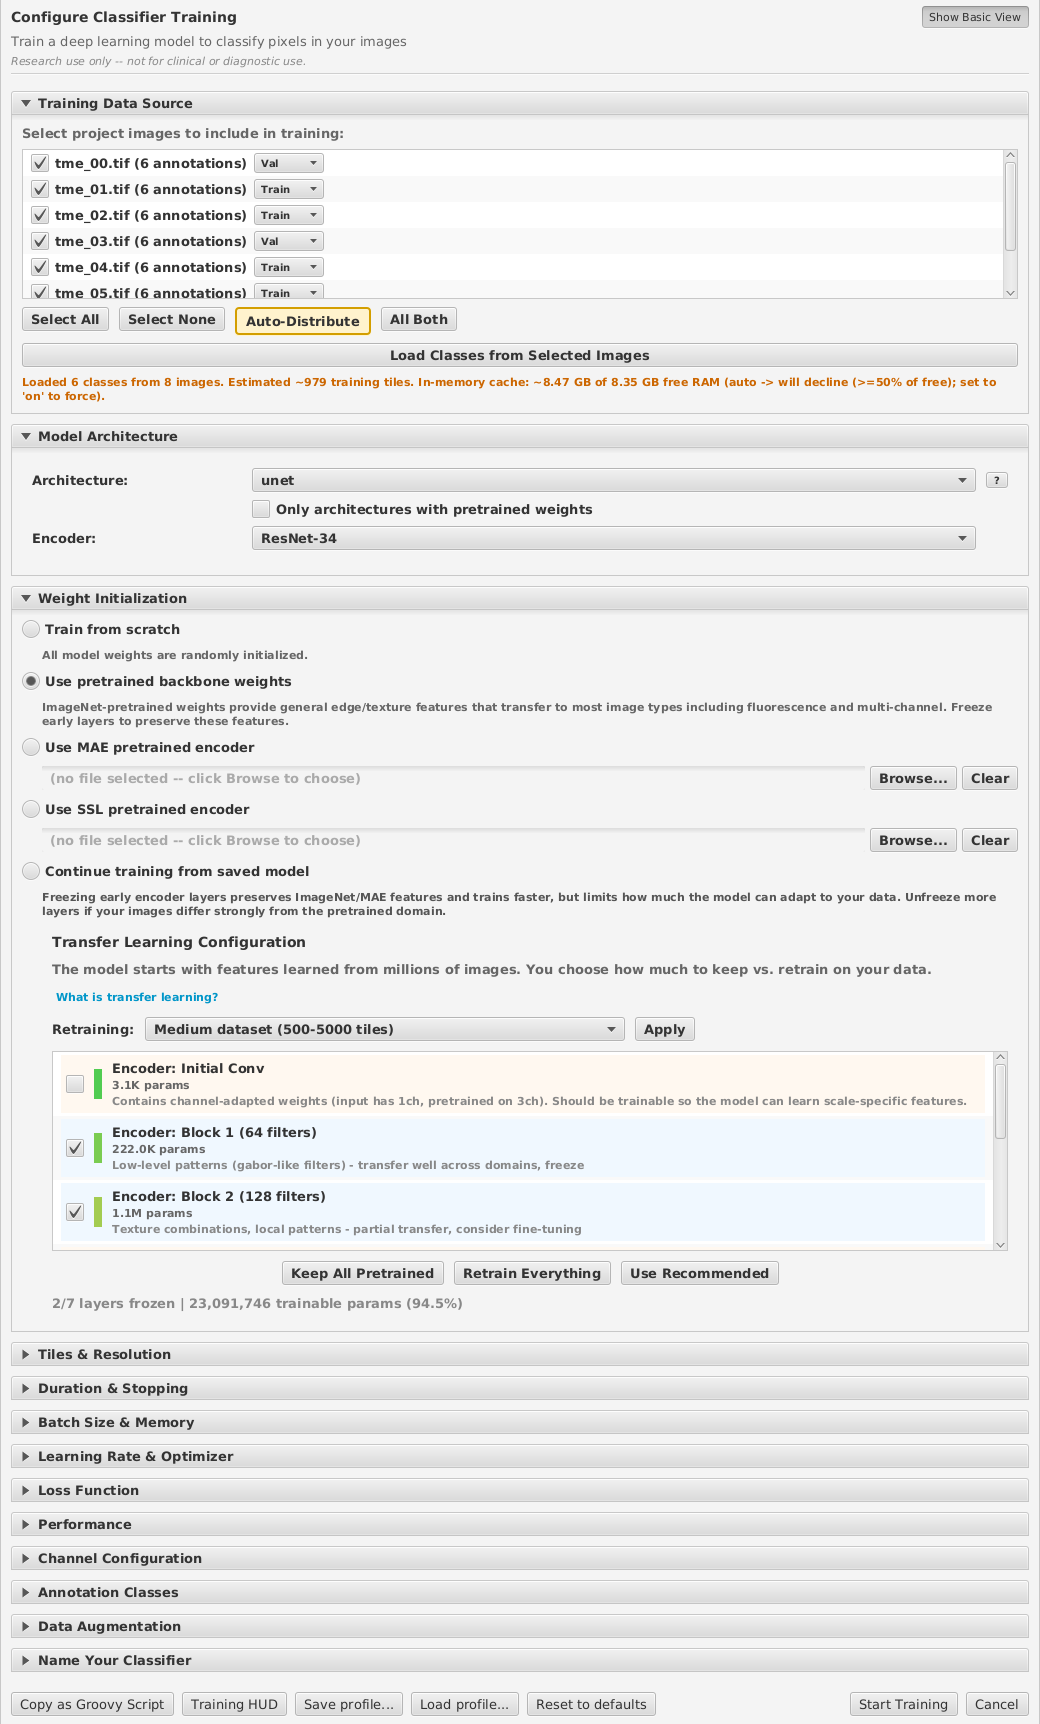
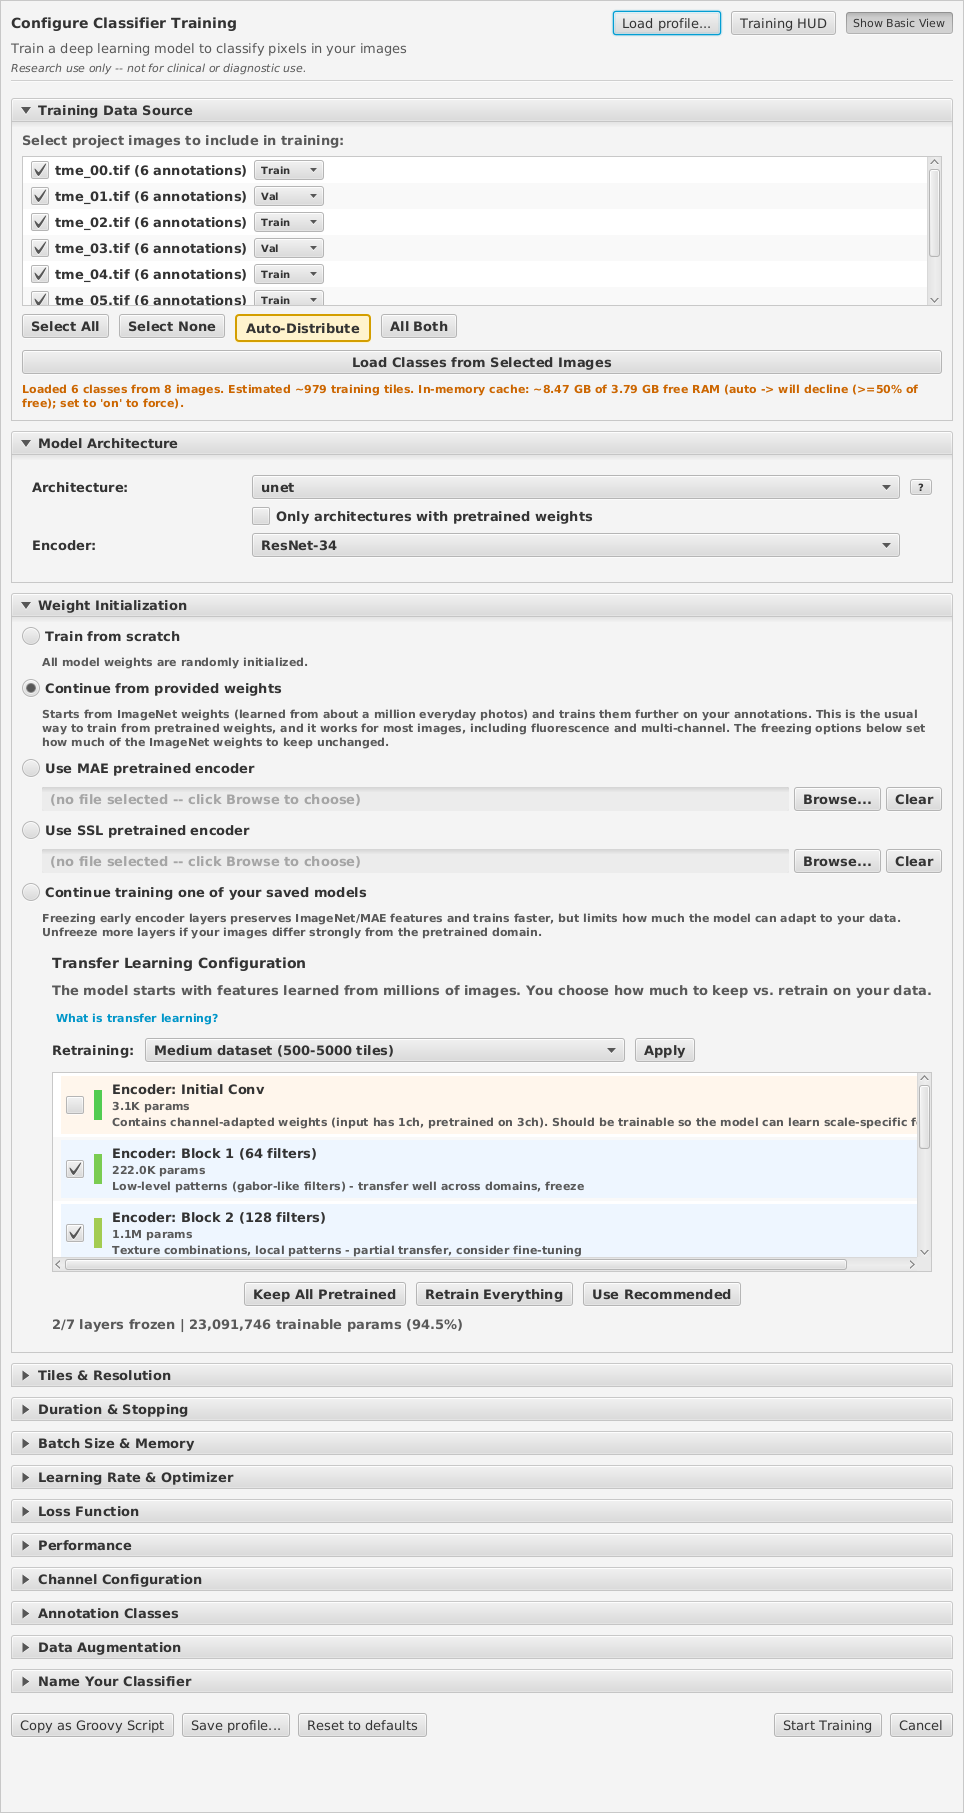
docs: re-render the Train dialog figure (new option names, header buttons)
Rendered by harness/DlTrainingDialogShotScenario.java from the real dialog: Load
profile... and Training HUD in the title row, "Continue from provided weights"
and "Continue training one of your saved models" in Weight Initialization. The
scenario now hides the checkpoint-recovery banner, which reports interrupted
runs on the rendering machine rather than anything a reader will see. Alt text
and the image registry row updated to match.

Claude-Session: https://claude.ai/code/session_01N4ZFToSsHCjtBUjwWur5XU

diff --git a/harness/DlTrainingDialogShotScenario.java b/harness/DlTrainingDialogShotScenario.java
@@ -118,6 +118,12 @@ public final class DlTrainingDialogShotScenario {
         Thread.sleep(6000);
 
         onFx(() -> {
+            // The checkpoint-recovery banner reports interrupted runs on THIS
+            // machine; it is not part of the dialog a reader will open.
+            hideBannerContaining(stage.getScene().getRoot(), "Unfinished training detected");
+            return null;
+        });
+        onFx(() -> {
             // Model Architecture holds the architecture row and the
             // pretrained-only checkbox; Weight Initialization is where the
             // pretrained choices themselves live. The figure is about both.
@@ -206,6 +212,29 @@ public final class DlTrainingDialogShotScenario {
             }
         }
         return null;
+    }
+
+    /** Hides the top-level box holding a label with this text, if one is showing. */
+    private static boolean hideBannerContaining(Node root, String text) {
+        if (root instanceof javafx.scene.control.Label l && l.getText() != null && l.getText().startsWith(text)) {
+            Node box = l;
+            while (box.getParent() != null && !(box.getParent() instanceof javafx.scene.layout.VBox v && v.getChildren().size() > 3)) {
+                box = box.getParent();
+            }
+            box.setVisible(false);
+            box.setManaged(false);
+            System.out.println("[note] hid the '" + text + "' banner (this machine's checkpoints)");
+            return true;
+        }
+        if (root instanceof Parent p) {
+            for (Node child : p.getChildrenUnmodifiable()) {
+                if (hideBannerContaining(child, text)) return true;
+            }
+            if (root instanceof ScrollPane sp && sp.getContent() != null) {
+                return hideBannerContaining(sp.getContent(), text);
+            }
+        }
+        return false;
     }
 
     /** First button-like node at or under {@code root} whose text starts with {@code prefix}. */

diff --git a/docs/TRAINING_GUIDE.md b/docs/TRAINING_GUIDE.md
@@ -40,7 +40,7 @@ Go to **Extensions > DL Pixel Classifier > Train DL Pixel Classifier...**
 
 The dialog opens in **Basic mode** by default, showing only the essentials: Training Data Source, Annotation Classes, and Classifier Name. Click **"Show All Settings"** in the header to reveal all configuration options. The mode is remembered across sessions.
 
-![Configure Classifier Training dialog in its advanced view. Training Data Source lists the project images, each with a checkbox and a Train/Val role dropdown, above Select All, Select None, Auto-Distribute and All Both buttons, a Load Classes from Selected Images button, and an orange line giving the estimated training tiles and warning that the in-memory cache would exceed half of free RAM. Model Architecture holds an Architecture dropdown set to unet, a checkbox reading Only architectures with pretrained weights, and an Encoder dropdown set to ResNet-34. Weight Initialization offers Train from scratch, Use pretrained backbone weights (selected), Use MAE pretrained encoder, Use SSL pretrained encoder and Continue training from saved model, followed by a Transfer Learning Configuration panel with a Retraining preset dropdown and a scrolling list of encoder blocks with per-block freeze checkboxes and parameter counts. The remaining sections are collapsed, and a button row runs along the bottom: Copy as Groovy Script, Training HUD, Save profile, Load profile, Reset to defaults, Start Training and Cancel](images/train-dialog-configure-classifier.png)
+![Configure Classifier Training dialog in its advanced view. The title row holds Load profile..., Training HUD and Show Basic View buttons. Training Data Source lists the project images, each with a checkbox and a Train/Val role dropdown, above Select All, Select None, Auto-Distribute and All Both buttons, a Load Classes from Selected Images button, and an orange line giving the estimated training tiles and warning that the in-memory cache would exceed half of free RAM. Model Architecture holds an Architecture dropdown set to unet, a checkbox reading Only architectures with pretrained weights, and an Encoder dropdown set to ResNet-34. Weight Initialization offers Train from scratch, Continue from provided weights (selected, described as starting from ImageNet weights), Use MAE pretrained encoder, Use SSL pretrained encoder and Continue training one of your saved models, followed by a Transfer Learning Configuration panel with a Retraining preset dropdown and a scrolling list of encoder blocks with per-block freeze checkboxes and parameter counts. The remaining sections are collapsed, and a button row runs along the bottom: Copy as Groovy Script, Save profile, Reset to defaults, Start Training and Cancel](images/train-dialog-configure-classifier.png)
 
 In advanced mode, the dialog has collapsible titled pane sections:
 

diff --git a/docs/images/IMAGE_REGISTRY.md b/docs/images/IMAGE_REGISTRY.md
@@ -16,7 +16,7 @@ This file tracks the relationship between documentation screenshots and the Java
 |------------|--------------------|---------------|--------|
 | `menu-dl-pixel-classifier.png` | `SetupDLClassifier.java` | 2026-09-09 | OK |
 | `workflow-map.png` | drawn from `workflow-map.spec` -- not a screenshot, so this check skips it; `tools/render_workflow_map.py --check` verifies its labels instead, in CI | 2026-10-16 | OK |
-| `train-dialog-configure-classifier.png` | `ui/TrainingDialog.java` | 2026-10-19 | OK (rendered by `harness/DlTrainingDialogShotScenario.java`; banner above the heading cropped) |
+| `train-dialog-configure-classifier.png` | `ui/TrainingDialog.java` | 2026-11-06 | OK (rendered by `harness/DlTrainingDialogShotScenario.java`; the scenario hides the checkpoint-recovery banner, which reports this machine's runs) |
 | `hud-walkthrough-01-at-rest.png` | `ui/hud/TrainingHudView.java` | 2026-10-20 | OK (rendered by `harness/TrainingHudWalkthroughScenario.java` on the workshop's brightfield tiles; re-render rather than re-capture) |
 | `hud-walkthrough-02-preset-a.png` | `ui/hud/TrainingHudView.java` | 2026-10-20 | OK (rendered by `harness/TrainingHudWalkthroughScenario.java` on the workshop's brightfield tiles; re-render rather than re-capture) |
 | `hud-walkthrough-03-resolution-8x-to-4x.png` | `ui/hud/TrainingHudView.java` | 2026-10-20 | OK (rendered by `harness/TrainingHudWalkthroughScenario.java` on the workshop's brightfield tiles; re-render rather than re-capture) |
